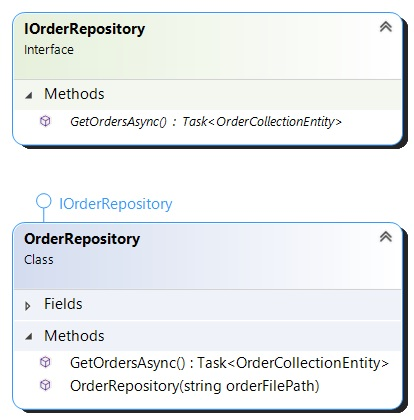
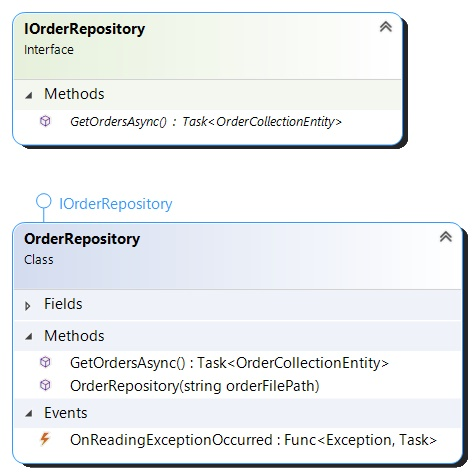
added error handling for bad input

Changed region(s): [[0.0, 0.4024, 1.0, 0.9905], [0.0, 0.0, 0.9855, 0.3714]]

diff --git a/MondialeVGL.OrderProcessor.Repository/OrderRepository.cs b/MondialeVGL.OrderProcessor.Repository/OrderRepository.cs
@@ -1,6 +1,7 @@
 using CsvHelper;
 using CsvHelper.Configuration;
 using MondialeVGL.OrderProcessor.Repository.Entities;
+using System;
 using System.Collections.Generic;
 using System.Globalization;
 using System.IO;
@@ -11,6 +12,8 @@ namespace MondialeVGL.OrderProcessor.Repository
     public class OrderRepository : IOrderRepository
     {
         private readonly string _orderFilePath;
+
+        public static event Func<Exception, Task> OnReadingExceptionOccurred;
 
         public OrderRepository(string orderFilePath)
         {
@@ -26,7 +29,7 @@ namespace MondialeVGL.OrderProcessor.Repository
 
             var config = new CsvConfiguration(CultureInfo.InvariantCulture)
             {
-                HasHeaderRecord = false,
+                HasHeaderRecord = false
             };
 
             using (var reader = new StreamReader(_orderFilePath))
@@ -37,7 +40,17 @@ namespace MondialeVGL.OrderProcessor.Repository
 
                 while (await csv.ReadAsync())
                 {
-                    isNewOrder = string.Compare(csv.GetField(0), RecordType.H.ToString(), true) == 0;
+                    try
+                    {
+                        isNewOrder = string.Compare(csv.GetField(0), RecordType.H.ToString(), true) == 0;
+                    }
+                    catch(Exception ex)
+                    {
+                        OnReadingExceptionOccurred?.Invoke(ex);
+                        isNewOrder = false;
+                        currentOrder = null;
+                        continue;
+                    }
 
                     if (isNewOrder)
                     {
@@ -47,17 +60,34 @@ namespace MondialeVGL.OrderProcessor.Repository
                         }
 
                         currentOrder = new OrderEntity();
-
-                        var orderHeader = csv.GetRecord<OrderHeaderEntity>();
-
-                        currentOrder.Header = orderHeader;
                         currentOrder.Details = new List<OrderDetailEntity>();
-                    }
-                    else
-                    {
-                        var orderDetail = csv.GetRecord<OrderDetailEntity>();
 
-                        currentOrder.Details.Add(orderDetail);
+                        try
+                        {
+                            var orderHeader = csv.GetRecord<OrderHeaderEntity>();
+
+                            currentOrder.Header = orderHeader;                            
+                        }
+                        catch(Exception ex)
+                        {
+                            OnReadingExceptionOccurred?.Invoke(ex);
+                            currentOrder = null;
+                            continue;
+                        }
+                    }
+                    else if (!isNewOrder && currentOrder != null && currentOrder.Header != null)
+                    {
+                        try
+                        {
+                            var orderDetail = csv.GetRecord<OrderDetailEntity>();
+
+                            currentOrder.Details.Add(orderDetail);
+                        }
+                        catch (Exception ex)
+                        {
+                            OnReadingExceptionOccurred?.Invoke(ex);
+                            continue;
+                        }                      
                     }
                 }
 

diff --git a/MondialeVGL.OrderProcessor.Services/OrderService.cs b/MondialeVGL.OrderProcessor.Services/OrderService.cs
@@ -1,19 +1,31 @@
 using MondialeVGL.OrderProcessor.Repository;
 using MondialeVGL.OrderProcessor.Repository.Entities;
 using MondialeVGL.OrderProcessor.Services.Models;
+using System;
 using System.Threading.Tasks;
 
 namespace MondialeVGL.OrderProcessor.Services
 {
-    public class OrderService : IOrderService
+    public class OrderService : IOrderService, IAsyncDisposable
     {
         private readonly IOrderRepository _orderRepository;
         private readonly IMappingService _mappingService;
+
+        public static event Func<Exception, Task> OnReadingExceptionOccurred;
 
         public OrderService(IOrderRepository orderRepository, IMappingService mappingService)
         {
             _orderRepository = orderRepository;
             _mappingService = mappingService;
+
+            OrderRepository.OnReadingExceptionOccurred += OrderRepository_OnReadingExceptionOccurred;
+        }
+
+        private async Task OrderRepository_OnReadingExceptionOccurred(Exception arg)
+        {
+            OnReadingExceptionOccurred?.Invoke(arg);
+
+            await Task.CompletedTask;
         }
 
         public async Task<string> GetOrdersXmlAsync()
@@ -23,6 +35,13 @@ namespace MondialeVGL.OrderProcessor.Services
             var orderModels = _mappingService.Map<OrderCollectionEntity, OrderCollectionModel>(orderEntities);
 
             return orderModels.Serialize();
+        }
+
+        public async ValueTask DisposeAsync()
+        {
+            OrderRepository.OnReadingExceptionOccurred -= OrderRepository_OnReadingExceptionOccurred;
+
+            await Task.CompletedTask;
         }
     }
 }

diff --git a/MondialeVGL.OrderProcessor/Program.cs b/MondialeVGL.OrderProcessor/Program.cs
@@ -28,18 +28,34 @@ namespace MondialeVGL.OrderProcessor
 
             try
             {
+                OrderService.OnReadingExceptionOccurred += OrderService_OnReadingExceptionOccurred;
+
                 var orderService = serviceProvider.GetRequiredService<IOrderService>();
 
+                //Process orders
                 var ordersXml = await orderService.GetOrdersXmlAsync();
 
                 Console.WriteLine(ordersXml);
+
+                await serviceProvider.DisposeAsync();
             }
             catch(Exception ex)
             {
+                await serviceProvider.DisposeAsync();
+
+                OrderService.OnReadingExceptionOccurred -= OrderService_OnReadingExceptionOccurred;
+
                 Console.WriteLine(ex.Message);
             }            
 
             Console.ReadLine();
+        }
+
+        private static async Task OrderService_OnReadingExceptionOccurred(Exception arg)
+        {
+            Console.WriteLine($"Error: {arg.InnerException?.Message}\n");
+
+            await Task.CompletedTask;
         }
     }
 }
